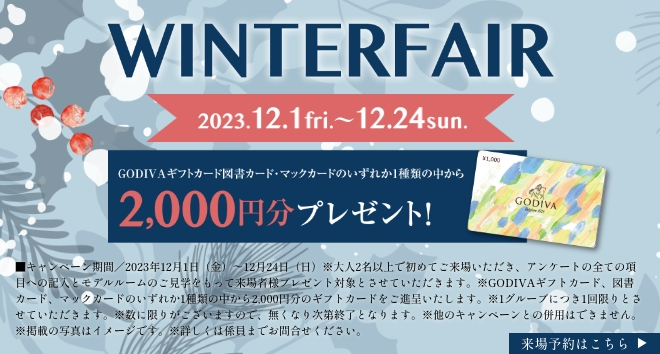
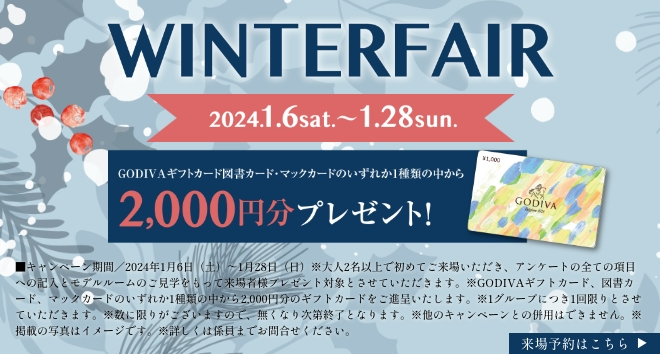
no message

Changed region(s): [[0.0303, 0.7147, 0.9697, 0.9633], [0.303, 0.2797, 0.7273, 0.3729]]

diff --git a/htmlmail/240116/member.html b/htmlmail/240116/member.html
@@ -359,10 +359,10 @@ table { width: 100%; margin: 0; padding: 0; border: none; }
     <div class="main">
         <table id="intro" cellpadding="0" cellspacing="0">
             <tr>
-                <td class="logo"><img src="https://www.cielia.com/m/saidaiji61/htmlmail/231221/img/header.jpg" alt=""></td>
+                <td class="logo"><img src="https://www.cielia.com/m/saidaiji61/htmlmail/240116/img/header.jpg" alt=""></td>
             </tr>
             <tr>
-                <td class="main"><img src="https://www.cielia.com/m/saidaiji61/htmlmail/231221/img/main.jpg" alt=""></td>
+                <td class="main"><img src="https://www.cielia.com/m/saidaiji61/htmlmail/240116/img/main.jpg" alt=""></td>
             </tr>
             <tr>
                 <td class="title">最終期モデルルーム公開中！</td>
@@ -371,29 +371,34 @@ table { width: 100%; margin: 0; padding: 0; border: none; }
                 <td class="txt"><span class="center">平素は格別のご高配を賜り、有難うございます。<br>この度は、新築分譲マンション【シエリア西大寺】に<br>ご関心をお寄せいただき、誠にありがとうございます。<br><br>
                     
                     
-                    <span style="color: #cc0000">南向き・3LDK・71㎡超 月々8万円台～。<br>ガーデニングなどが楽しめる1階テラス付の住戸や、<br>駐車場優先権付・81㎡超の角住戸</span>を<br>分譲中でございます。<br>引き続きご関心をお持ちの方は、<br>シエリアサロン西大寺にて<br>モデルルーム見学（予約優先制）を<br>ご案内させていただいております。<br><br>
+                    <span style="color: #cc0000">南向き・3LDK・71㎡超 月々8万円台～<br>南向きのリビング・ダイニングに面して、<br>奥行き約3.8ｍの開放感あふれるテラスを実現したプラン。<br></span>を分譲中でございます。<br>引き続きご関心をお持ちの方は、<br>シエリアサロン西大寺にて<br>モデルルーム見学（予約優先制）を<br>ご案内させていただいております。<br><br>
 
                     
-                ご不明な点などございましたら、<br>お気軽にシエリアサロンまでお問合せください。<br><a href="tel:0120-861-061"><img src="https://www.cielia.com/m/saidaiji61/htmlmail/231221/img/tel.jpg" alt="" style="max-width:400px"></a>
+                ご不明な点などございましたら、<br>お気軽にシエリアサロンまでお問合せください。<br><a href="tel:0120-861-061"><img src="https://www.cielia.com/m/saidaiji61/htmlmail/240116/img/tel.jpg" alt="" style="max-width:400px"></a>
                       
                 <br><br>
-                皆様のご来場をスタッフ一同、<br>心よりお待ち申し上げております。<br><br>＜冬季休業のお知らせ＞<br>誠に勝手ではございますが、「シエリア西大寺」は<br>2023年12月26日(火)～2024年1月5日(金)まで<br>冬季休業としております。<br>休業期間中にいただいた、来場予約や資料請求に<br>つきましては、2024年1月5日(金)より、<br>順次ご対応させていただきますので<br>予めご了承ください。</span></td>
+                皆様のご来場をスタッフ一同、<br>心よりお待ち申し上げております。</span></td>
             </tr>
             <!-- あいさつ文に関連するコンテンツor来場予約への導線設置必須。キャンペーン実施時は、キャンペーンバナー設置推奨 -->
             <tr>
-                <td class="txt"><span class="center">シエリア西大寺では只今、<br><span style="color: #cc0000">WINTERフェア</span>を開催中です。（12月24日（日）まで）<br>この機会に是非お越しください。</span></td>
+                <td class="txt"><span class="center">シエリア西大寺では只今、<br><span style="color: #cc0000">WINTERフェア</span>を開催中です。（1月28日（日）まで）<br>この機会に是非お越しください。</span></td>
+            </tr>
+            <tr>
+                <td class="bnr">
+                        <img src="https://www.cielia.com/m/saidaiji61/htmlmail/240116/img/plan-eg_m2.jpg" alt="">
+                </td>
             </tr>
             <tr>
                 <td class="bnr">
                     <a href="https://mid.secure.force.com/reserve?id=a0c5j000000erLn&utm_source=mail&utm_medium=email&utm_campaign=mail" target="_blank">
-                        <img src="https://www.cielia.com/m/saidaiji61/htmlmail/231221/img/bnr_cp.jpg" alt="">
+                        <img src="https://www.cielia.com/m/saidaiji61/htmlmail/240116/img/bnr_cp.jpg" alt="">
                     </a>
                 </td>
             </tr>         
             <tr>
                 <td class="btn" style="padding-top:40px">
                     <a href="https://mid.secure.force.com/reserve?id=a0c5j000000erLn&utm_source=mail&utm_medium=email&utm_campaign=mail" target="_blank">
-                    <img src="https://www.cielia.com/m/saidaiji61/htmlmail/231221/img/raijo.jpg" alt="">
+                    <img src="https://www.cielia.com/m/saidaiji61/htmlmail/240116/img/raijo.jpg" alt="">
                     </a>
                 </td>
             </tr>
@@ -410,16 +415,16 @@ table { width: 100%; margin: 0; padding: 0; border: none; }
                 <td class="title">新しい間取りを公開</td>
             </tr>
             <tr>
-                <td class="copy">Egタイプのメニュープラン2<br>Gタイプ<br>を公開いたしました。</td>
+                <td class="copy">Egタイプのメニュープラン2<br>を公開いたしました。</td>
             </tr>
             <tr>
-                <td class="img"><img src="https://www.cielia.com/m/saidaiji61/htmlmail/231221/img/img_pickup03.jpg" alt=""></td>
+                <td class="img"><img src="https://www.cielia.com/m/saidaiji61/htmlmail/240116/img/img_pickup03.jpg" alt=""></td>
             </tr>
 
             <tr>
                 <td class="btn">
                     <a href="https://www.cielia.com/m/saidaiji61/plan/?utm_source=mail&utm_medium=email&utm_campaign=mail" target="_blank">
-                        <img src="https://www.cielia.com/m/saidaiji61/htmlmail/231221/img/btn_detail.jpg" alt="">
+                        <img src="https://www.cielia.com/m/saidaiji61/htmlmail/240116/img/btn_detail.jpg" alt="">
                     </a>
                 </td>
             </tr>
@@ -437,13 +442,13 @@ table { width: 100%; margin: 0; padding: 0; border: none; }
             </tr>
             <tr>
                 <td class="img">
-                    <img src="https://www.cielia.com/m/saidaiji61/htmlmail/231221/img/img_pickup02.jpg" alt="">
+                    <img src="https://www.cielia.com/m/saidaiji61/htmlmail/240116/img/img_pickup02.jpg" alt="">
                 </td>
             </tr>
             <tr>
                 <td class="btn">
                     <a href="https://www.cielia.com/m/saidaiji61/member/?utm_source=mail&utm_medium=email&utm_campaign=mail" target="_blank">
-                        <img src="https://www.cielia.com/m/saidaiji61/htmlmail/231221/img/btn_detail.jpg" alt="">
+                        <img src="https://www.cielia.com/m/saidaiji61/htmlmail/240116/img/btn_detail.jpg" alt="">
                     </a>
                 </td>
             </tr>
